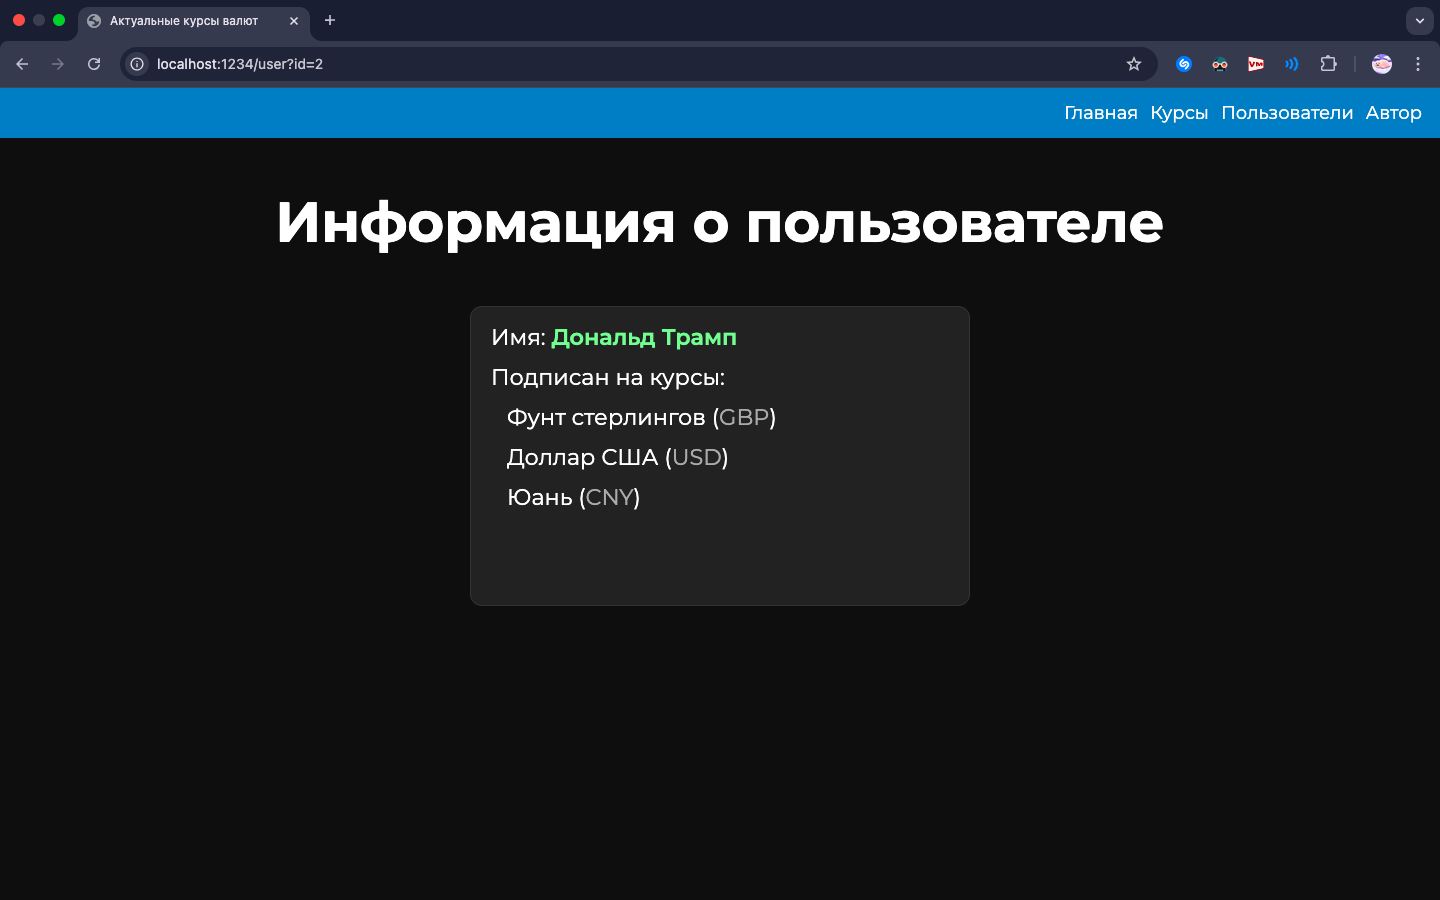
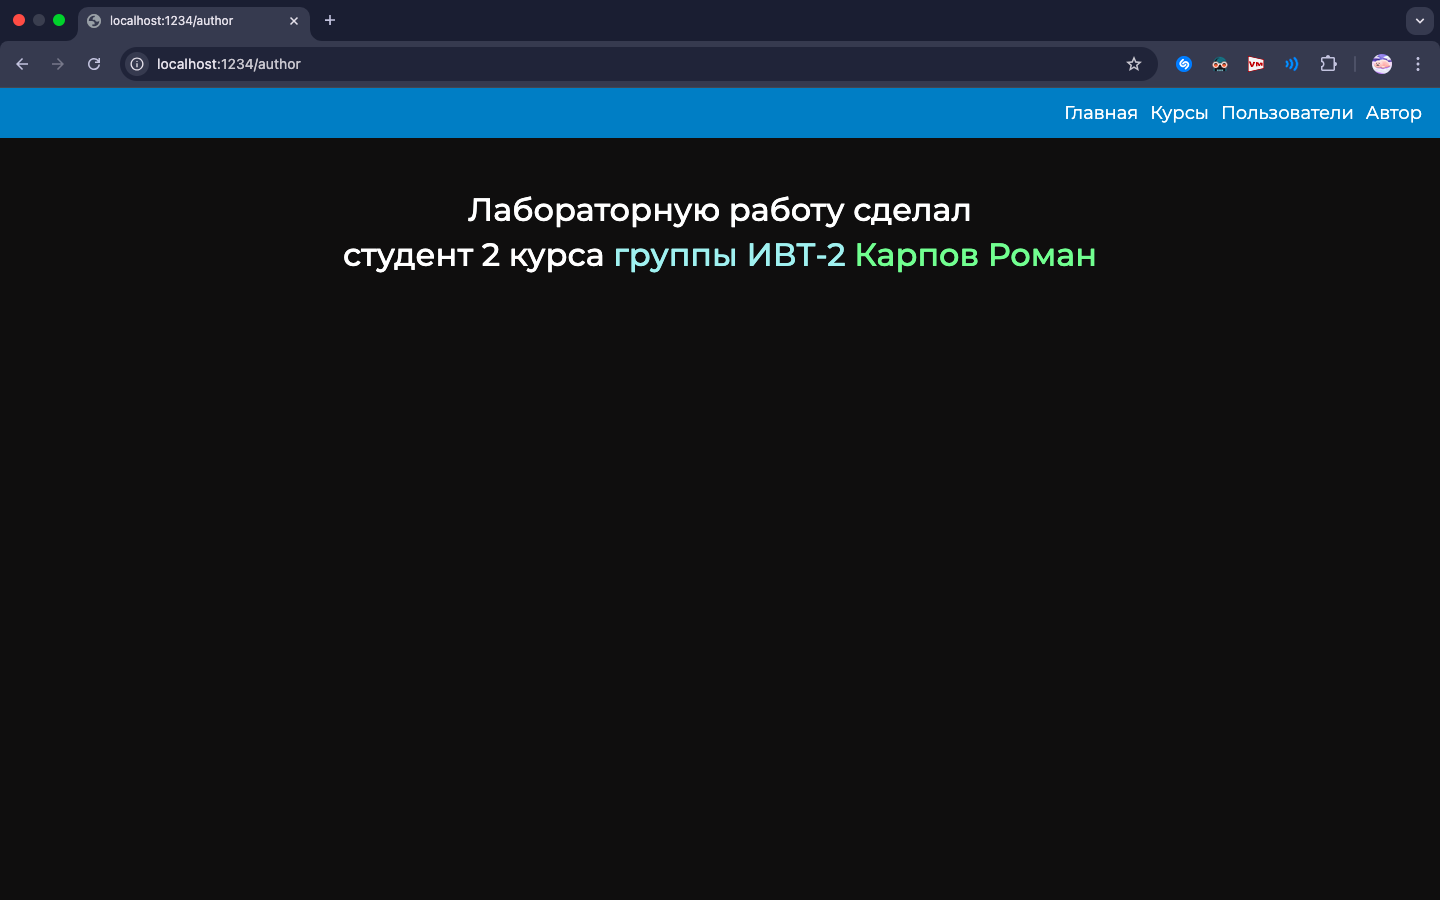
Lab7

diff --git a/Lab7/templates/author.html b/Lab7/templates/author.html
@@ -14,7 +14,7 @@
         {% include 'topbar.html' %}
 
         <div id="main_container">
-            <p id="author_info">Лабораторную работу сделал студент 2 курса <span id="author_info__group">группы {{ app.author.group }}</span><br><span id="author_info__name">{{ app.author.name }}<span></p>
+            <p id="author_info">Лабораторную работу сделал<br>студент 2 курса <span id="author_info__group">группы {{ app.author.group }}</span> <span id="author_info__name">{{ app.author.name }}<span></p>
         </div>
     </body>
 </html>

diff --git a/Lab7/static/css/author.css b/Lab7/static/css/author.css
@@ -32,7 +32,6 @@ body {
 
 #author_info__name {
     color: palegreen;
-    font-size: 1.5em;
 }
 
 #author_info__group {

diff --git a/Lab7/README.md b/Lab7/README.md
@@ -1,1 +1,101 @@
+# Лабораторная работа 7
+
+## Цель работы
+
+1. Создать простой HTTP сервер на Python без использования серверных фреймворков.
+2. Освоить работу с HTTPServer и маршрутизацию запросов.
+3. Применять шаблонизатор Jinja2 для отображения данных.
+4. Реализовать модели предметной области (`User`, `Currency`, `UserCurrency`, `App`, `Author`) с геттерами и сеттерами.
+5. Структурировать код в соответствии с архитектурой MVC.
+6. Получать данные о курсах валют через функцию `get_currencies` и отображать их пользователям.
+7. Реализовать функциональность подписки пользователей на валюты и отображение динамики их изменения.
+8. Научиться создавать тесты для моделей и серверной логики.
+
+## Описание предметной области
+
+### Модели
+
+1. Author
+   * `name` — имя автора
+   * `group` — учебная группа
+2. App
+   * `name` — название приложения
+   * `version` — версия приложения
+   * `author` — объект Author
+3. User
+   * `id` — уникальный идентификатор
+   * `name` — имя пользователя
+4. Currency
+   * `id` — уникальный идентификатор
+   * `num_code` — цифровой код
+   * `char_code` — символьный код
+   * `name` — название валюты
+   * `value` — курс
+   * `nominal` — номинал (за сколько единиц валюты указан курс)
+
+5. UserCurrency
+   * `id` — уникальный идентификатор
+   * `user_id` — внешний ключ к User
+   * `currency_id` — внешний ключ к Currency
+   * Реализует связь «много ко многим» между пользователями и валютами
+
+## Архитектура проекта (MVC)
+
+Структура папок:
+
+```
+Lab7/
+├── models/
+│ ├── __init__.py
+│ ├── author.py
+│ ├── app.py
+│ ├── currency.py
+│ ├── user_currency.py
+│ └── user.py
+├── templates/
+│ ├── index.html
+│ ├── users.html
+│ └── currencies.html
+├── static/
+│ └── css, js, изображения
+├── main.py
+└── utils/
+ └── currencies_api.py # функция get_currencies
+```
+
+## Описание реализации
+
+* Реализовны модели `Author`, `App`, `Currency`, `User`, `UserCurrency` с геттерами и сеттерами.
+* Реализована маршрутизация - проверяем значение свойства `path` у `HttpHandler` и отправляем соответствующую сгенерированную html-страницу, если значение неправильное - отправляем ошибку 404.
+* Для генерирования html-страниц используется шаблонизатор jinja2.
+* Для получения курс валют используется функция `get_currencies` из предыдущей ЛР.
+
+## Скриншоты
+
+### Главная страница (`/`)
+
+![Главная страница](./screenshots/index.png)
+
+### Страница с пользователями (`/users`)
+
+![Страница с пользователями](./screenshots/users.png)
+
+### Страница с курсами валют (`/currencies`)
+
+![Страница с курсами валют](./screenshots/currencies.png)
+
+### Страница с информацией о пользователе (`/user?id=...`)
+
+![Страница с информацией о пользователе](./screenshots/user_info.png)
+
+### Страница с информацией об авторе
+
+![Страница с информацией об авторе](./screenshots/author.png)
+
+## Тестирование 
+
 Будет сделано...
+
+## Выводы
+
+Узнал о библиотеке jinja2, о том как работает HTTP сервер, а также научился применять принцип MVC.
